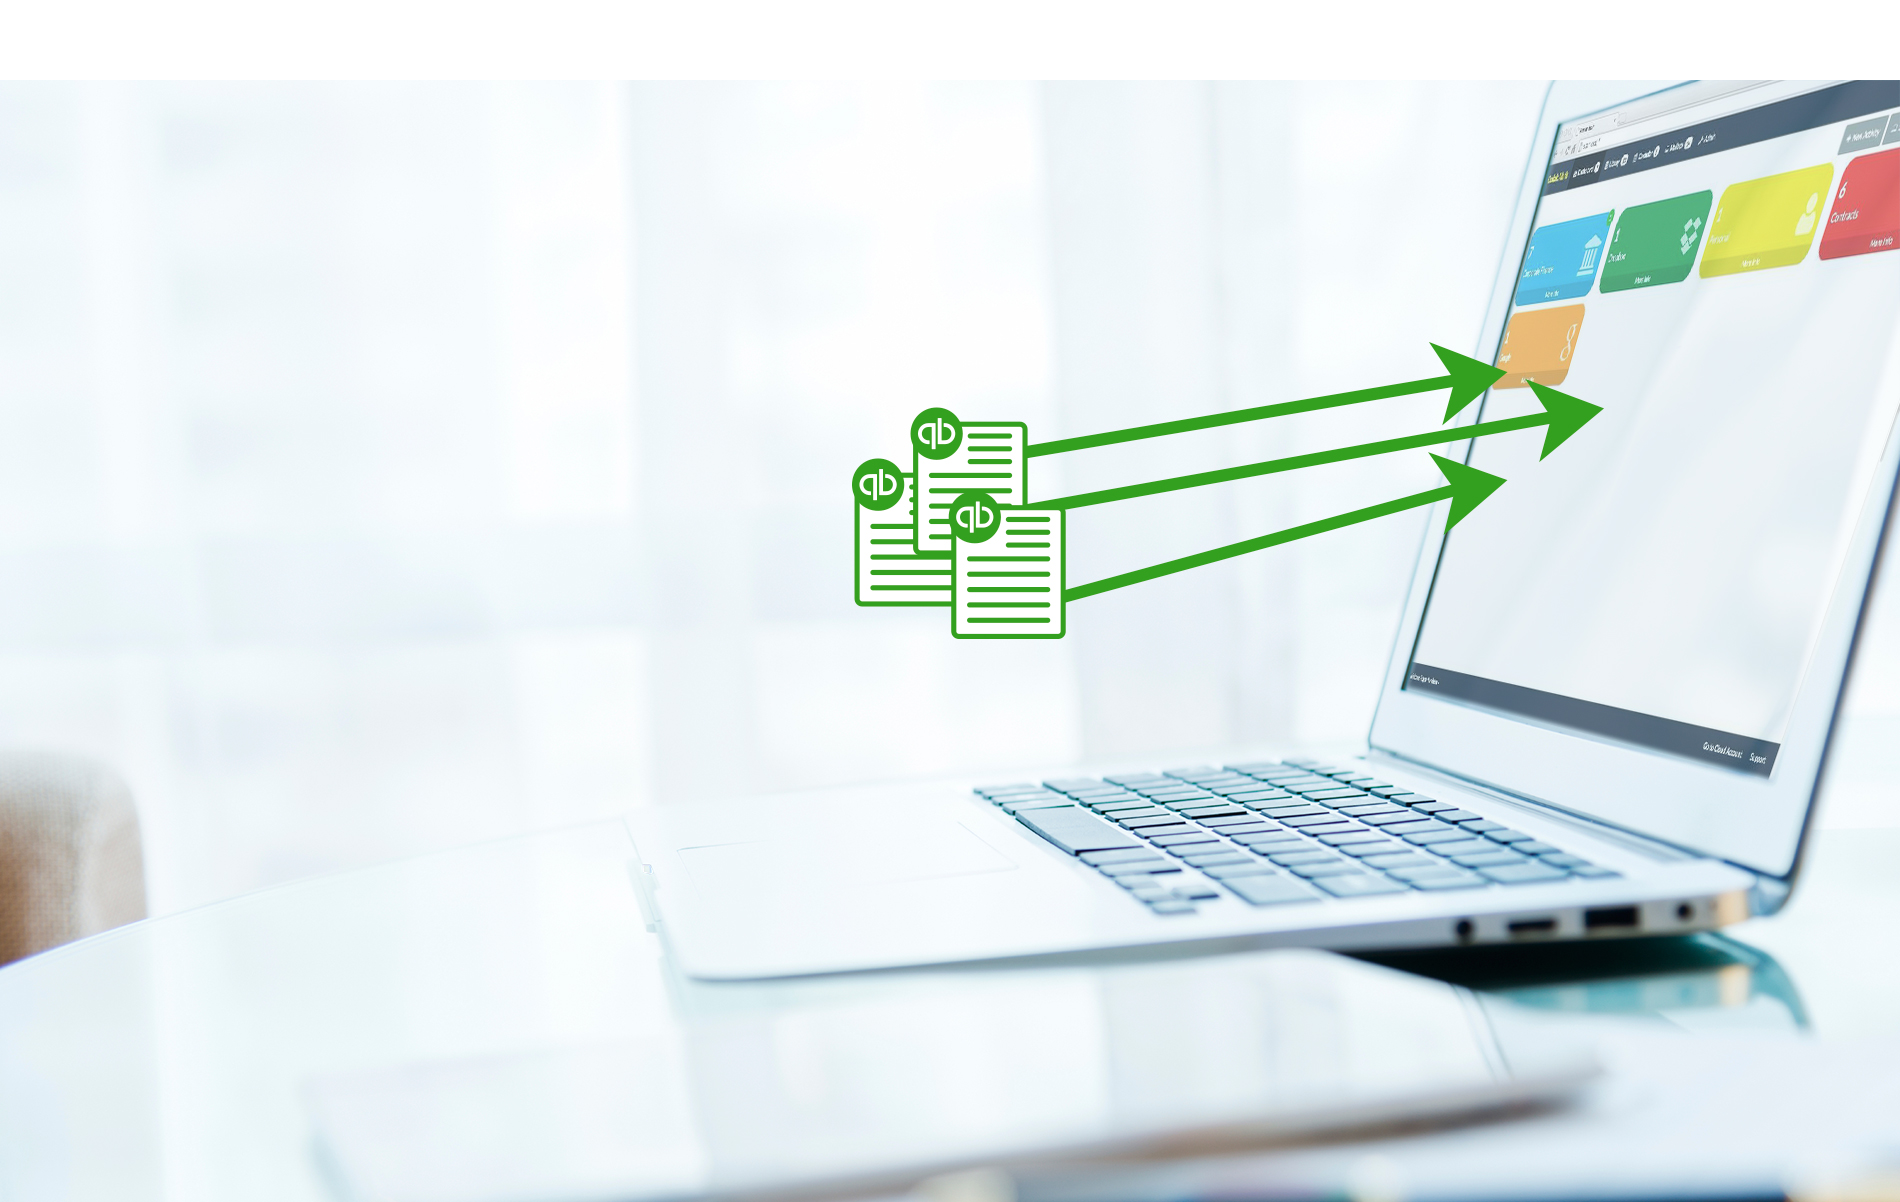
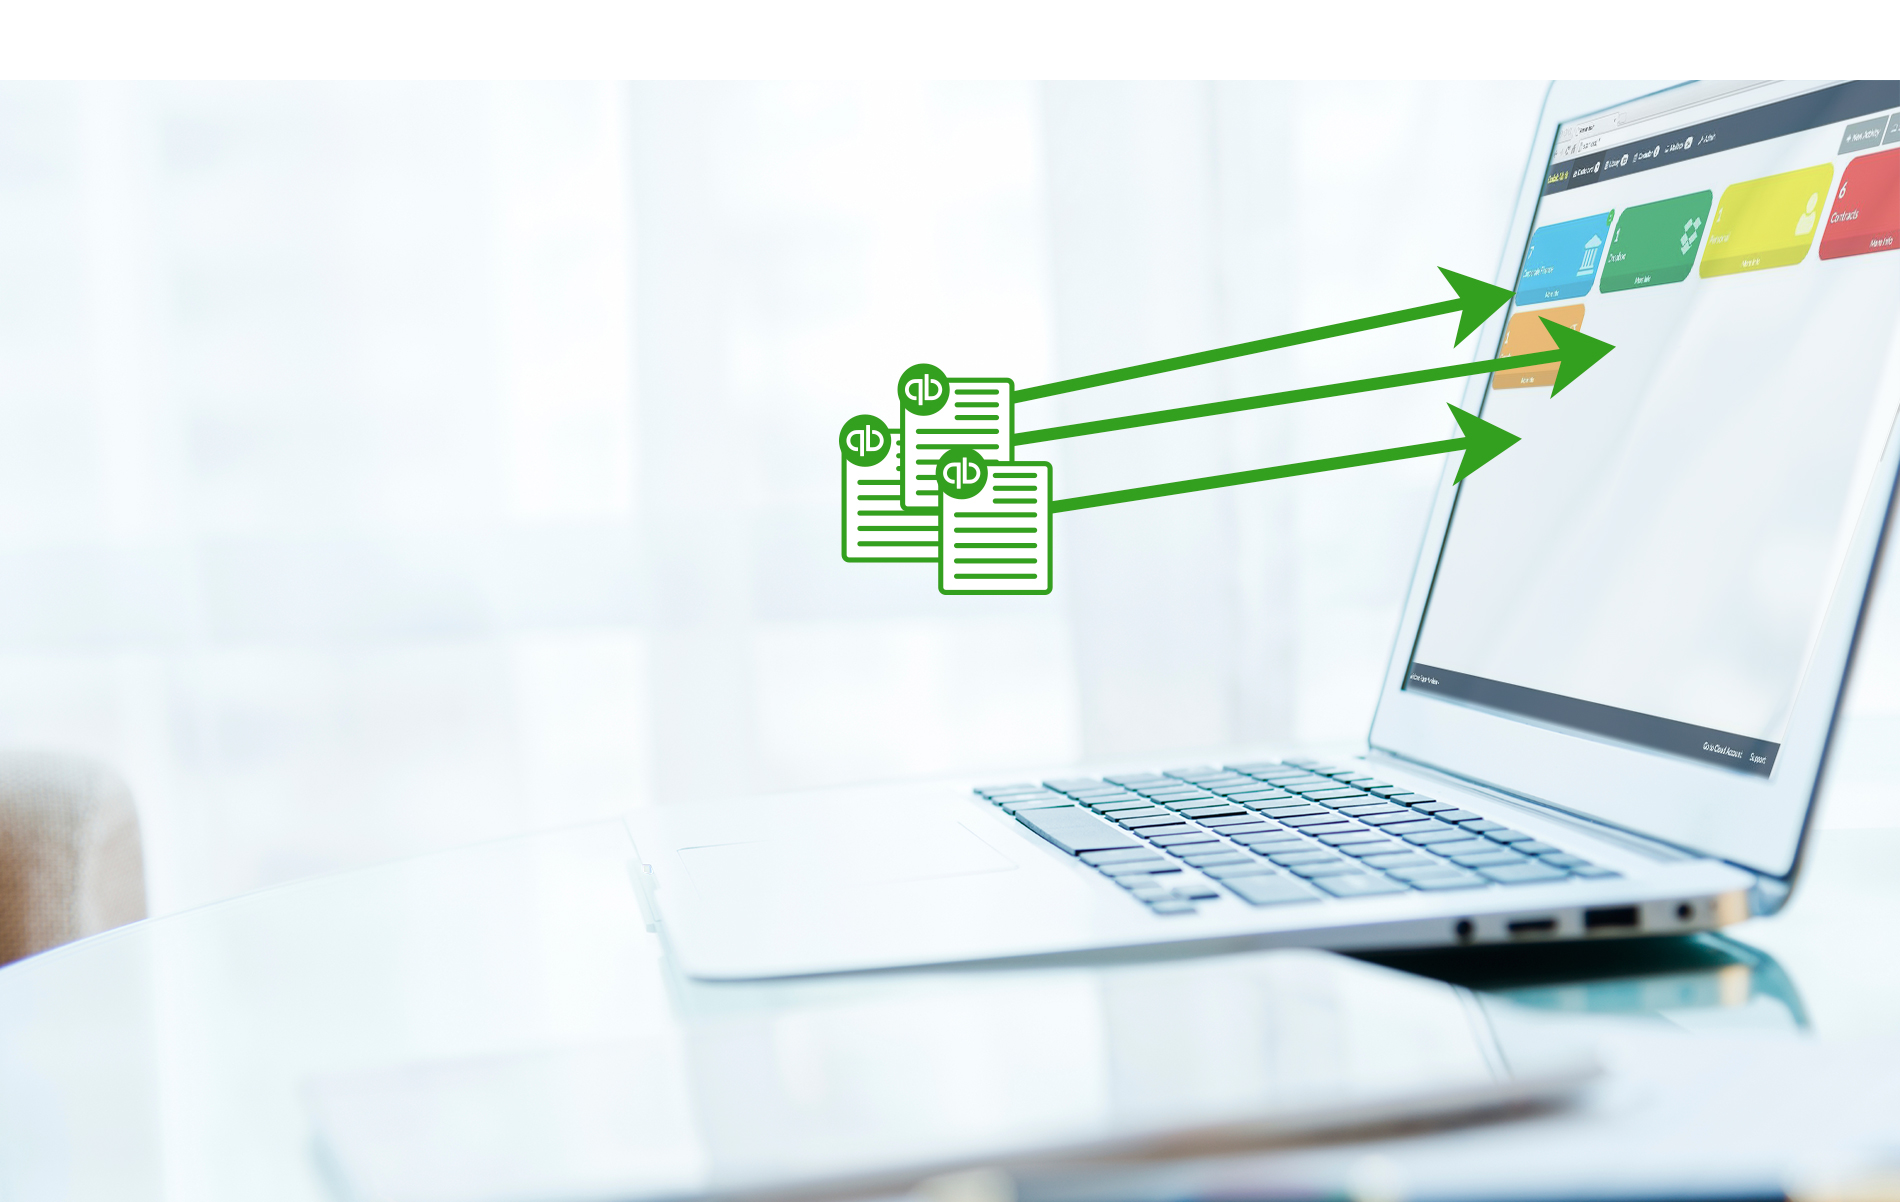
More pixel dicking

Changed region(s): [[0.4347, 0.2155, 0.8695, 0.5541]]

diff --git a/source/stylesheets/lib/theme.css.scss b/source/stylesheets/lib/theme.css.scss
@@ -113,7 +113,7 @@ p {
 
 .partners-qb {
   .intro-content {
-    top:  0px;
+    top:  -20px;
     h2 {
       font-size: 36px;} } }
 
@@ -122,7 +122,7 @@ p {
 
 .cta-container {
   @include float(left, absolute);
-  margin-top: -33%; }
+  margin-top: -38%; }
 
 .intro-divider {
   border:{
